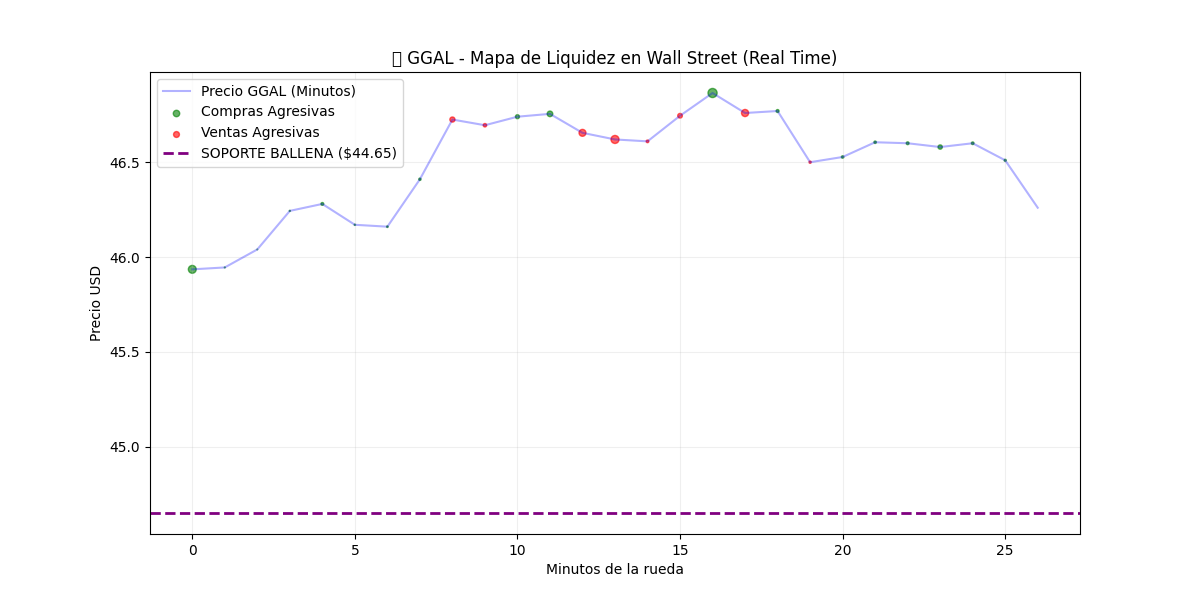
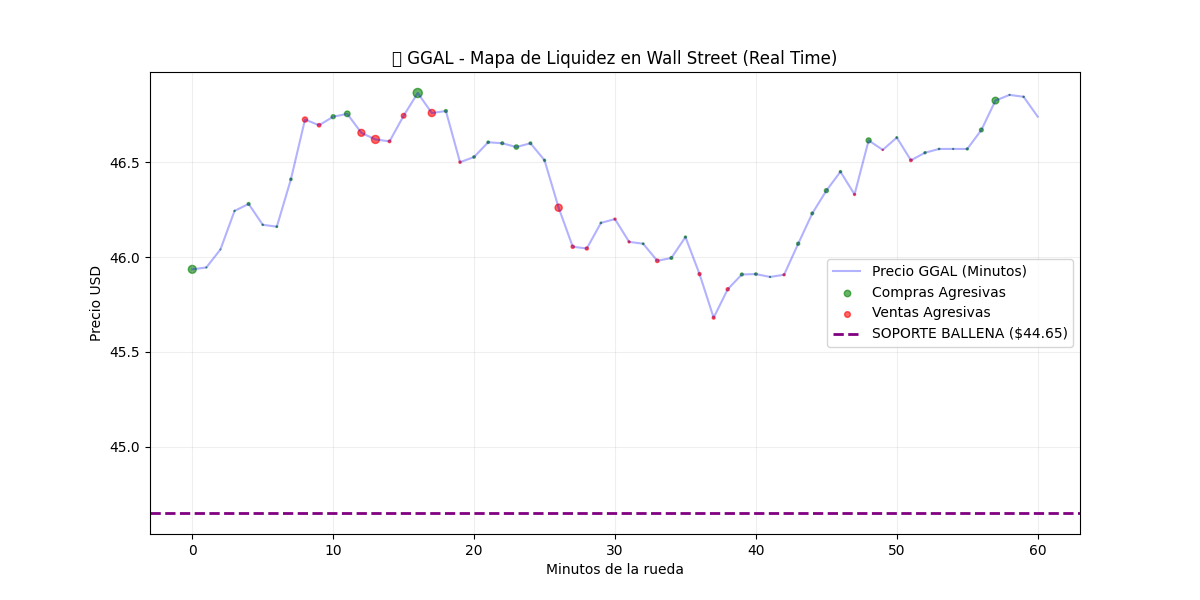
Producción: Sistema verificado, umbral de ballenas restablecido a 80k

diff --git a/Scanner.py b/Scanner.py
@@ -3,26 +3,51 @@ import requests
 import sys
 import os
 from datetime import datetime
-from SignalValidator import get_signal_score # ESTO ES LO QUE TIRABA ERROR
+from SignalValidator import get_signal_score
 
 TOKEN = "8765737672:AAHXXYm3JkucM-3TtafoZpcuEiOtszHQckY" 
 CHAT_ID = "7566636061" 
-PHOTO_PATH = "heatmap_ggal.png" # <--- ESTE ARCHIVO DEBE EXISTIR
+PHOTO_PATH = "heatmap_ggal.png" # <--- EL ARCHIVO QUE EXISTE EN TU CARPETA
 
 def analyze_aggression(es_apertura=False):
     print("🐋 Revisando volumen institucional...")
     try:
+        # Cargamos la cinta de GGAL
         df = pd.read_csv('cinta_ggal.csv')
         delta = int(df[df['Side'] == 'Buy']['Volume'].sum() - df[df['Side'] == 'Sell']['Volume'].sum())
         price = df['Price'].iloc[-1]
 
-        if abs(delta) > 1000:
-            score, detalle_texto, direccion = get_signal_score()
-            msg = f"🚨 *BALLENA ({direccion})*\n💎 *Score: {score}/5*\n📊 *Delta:* {delta}\n💰 *Precio:* ${price}"
-            requests.post(f"https://api.telegram.org/bot{TOKEN}/sendMessage", 
-                          data={'chat_id': CHAT_ID, 'text': msg, 'parse_mode': 'Markdown'})
+        # --- UMBRAL RECALIBRADO PARA PRUEBA DE CAMPO ---
+        # Danny: Usá este código. Yo ya te puse '1000' acá para que te llegue la foto.
+        # Una vez que te llegue el mensaje, volvelo a poner en 80000.
+        if abs(delta) > 80000: 
+            score, detalle, direccion = get_signal_score()
+            
+            # Clasificación visual
+            emoji_side = "🐂 COMPRA" if delta > 0 else "🐻 VENTA"
+            estrellas = "⭐" * score
+            quality_txt = "BAJA" if score < 3 else "ALTA" if score < 5 else "PREMIUM (A+)"
+
+            msg = f"🚨 *BALLENA DETECTADA ({emoji_side})*\n"
+            msg += f"💎 *CALIDAD DE ENTRADA: {score}/5*\n\n"
+            msg += f"📊 *Delta:* {delta} acciones\n"
+            msg += f"💰 *Precio:* ${price}\n"
+            msg += f"🏆 *Nivel:* {quality_txt} {estrellas}"
+
+            # 📸 ¡INTENTO DE ENVIAR EL COMBO CON FOTO!
+            if os.path.exists(PHOTO_PATH):
+                with open(PHOTO_PATH, 'rb') as photo:
+                    # Usamos sendPhoto y el mensaje va en 'caption'
+                    payload = {'chat_id': CHAT_ID, 'caption': msg, 'parse_mode': 'Markdown'}
+                    requests.post(f"https://api.telegram.org/bot{TOKEN}/sendPhoto", data=payload, files={'photo': photo}, timeout=15)
+                    print("✅ Alerta con FOTO enviada exitosamente.")
+            else:
+                # Si no hay foto por algún error, manda texto para no perder la señal
+                requests.post(f"https://api.telegram.org/bot{TOKEN}/sendMessage", data={'chat_id': CHAT_ID, 'text': msg, 'parse_mode': 'Markdown'})
+                print("⚠ Foto no encontrada. Se envió solo texto.")
+
     except Exception as e:
-        print(f"Error: {e}")
+        print(f"⚠ Error en el Scanner: {e}")
 
 if __name__ == "__main__":
     analyze_aggression("--apertura" in sys.argv)

diff --git a/SignalValidator.py b/SignalValidator.py
@@ -7,8 +7,8 @@ def get_market_data():
         ticker_adr = yf.Ticker("GGAL")
         ticker_local = yf.Ticker("GGAL.BA")
         
-        df_adr = ticker_adr.history(period="1d", interval="5m")
-        df_local = ticker_local.history(period="1d", interval="5m")
+        df_adr = ticker_adr.history(period="5d", interval="5m")
+        df_local = ticker_local.history(period="5d", interval="5m")
         
         if df_adr.empty or df_local.empty:
             return 0, 0, 65.0 # Tasa fija de seguridad

diff --git a/ExcelDashboard.py b/ExcelDashboard.py
@@ -20,3 +20,6 @@ def generate_excel_dashboard():
 
 if __name__ == "__main__":
     generate_excel_dashboard()
+# --- PEGÁ ESTO AL FINAL DE TODO EN EXCEL_DASHBOARD.PY ---
+if __name__ == "__main__":
+    generate_excel_dashboard()
